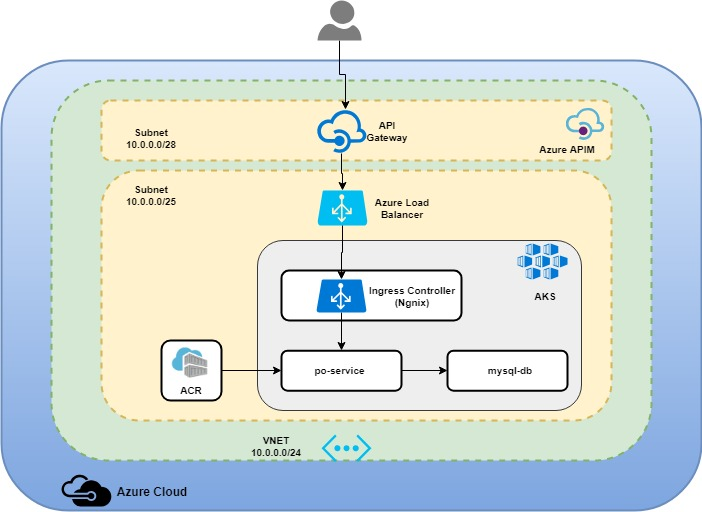
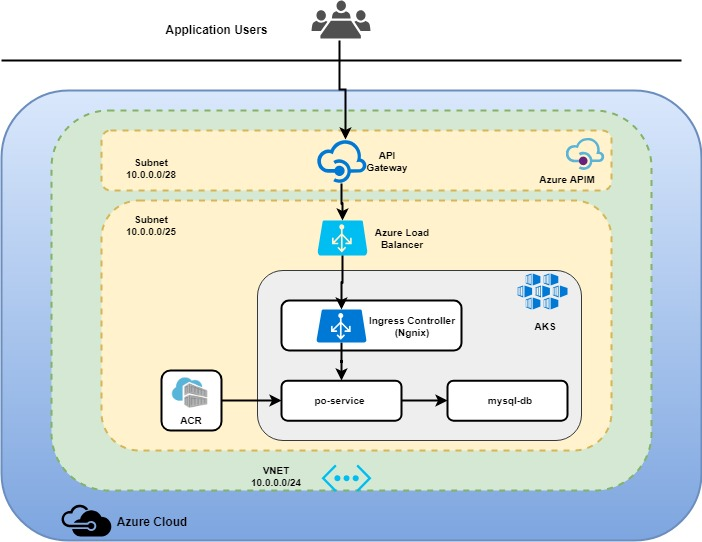
Updated Readme docs and arch. diagrams

diff --git a/extensions/po-deploy-azuredb-mysql/README.md b/extensions/po-deploy-azuredb-mysql/README.md
@@ -32,6 +32,10 @@ In a nutshell, you will work on the following tasks.
 
    The microservice will use the managed MySQL instance on Azure to persist *Purchase Orders*.
 
+**Functional Architecture:**
+
+![alt tag](./images/aks-osba-po-deploy.jpg)
+
 For easy and quick reference, readers can refer to the following on-line resources as needed.
 - [Helm](https://docs.helm.sh/)
 - [Open Service Broker API](https://www.openservicebrokerapi.org/)
